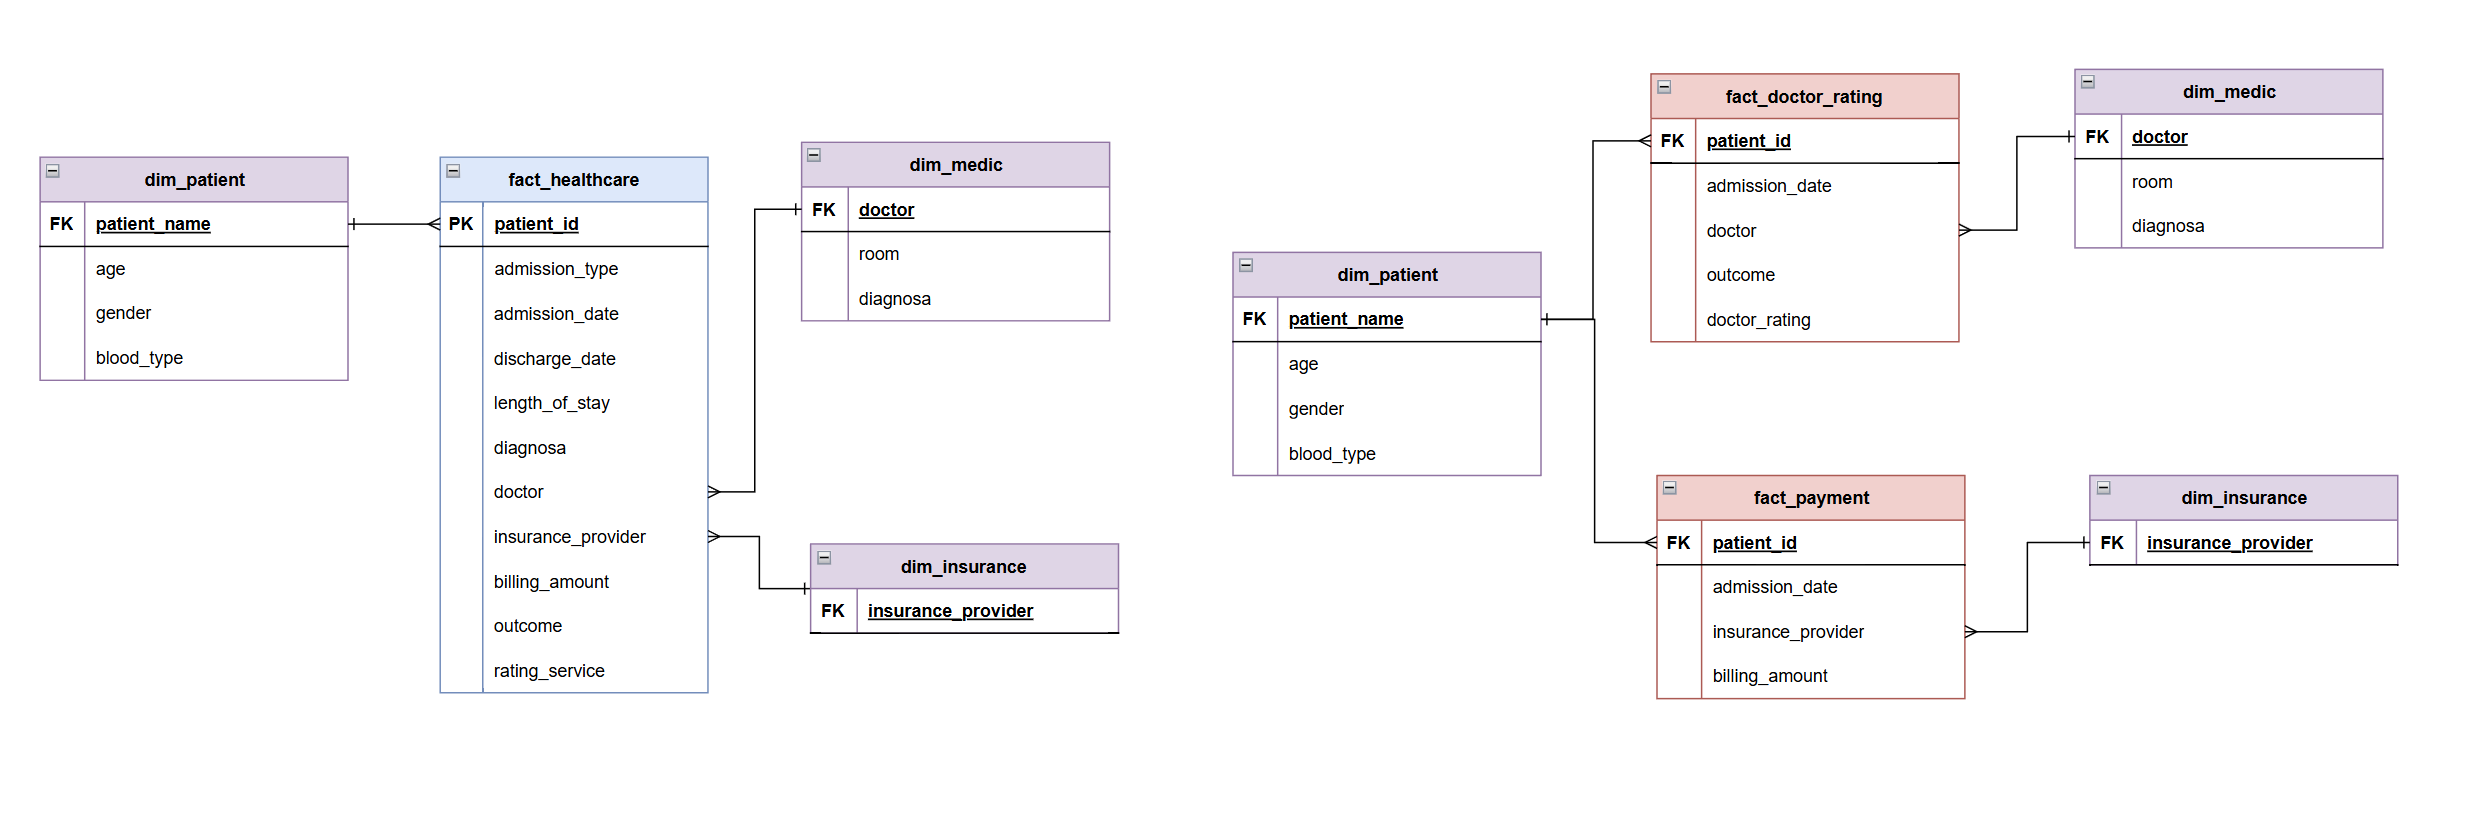
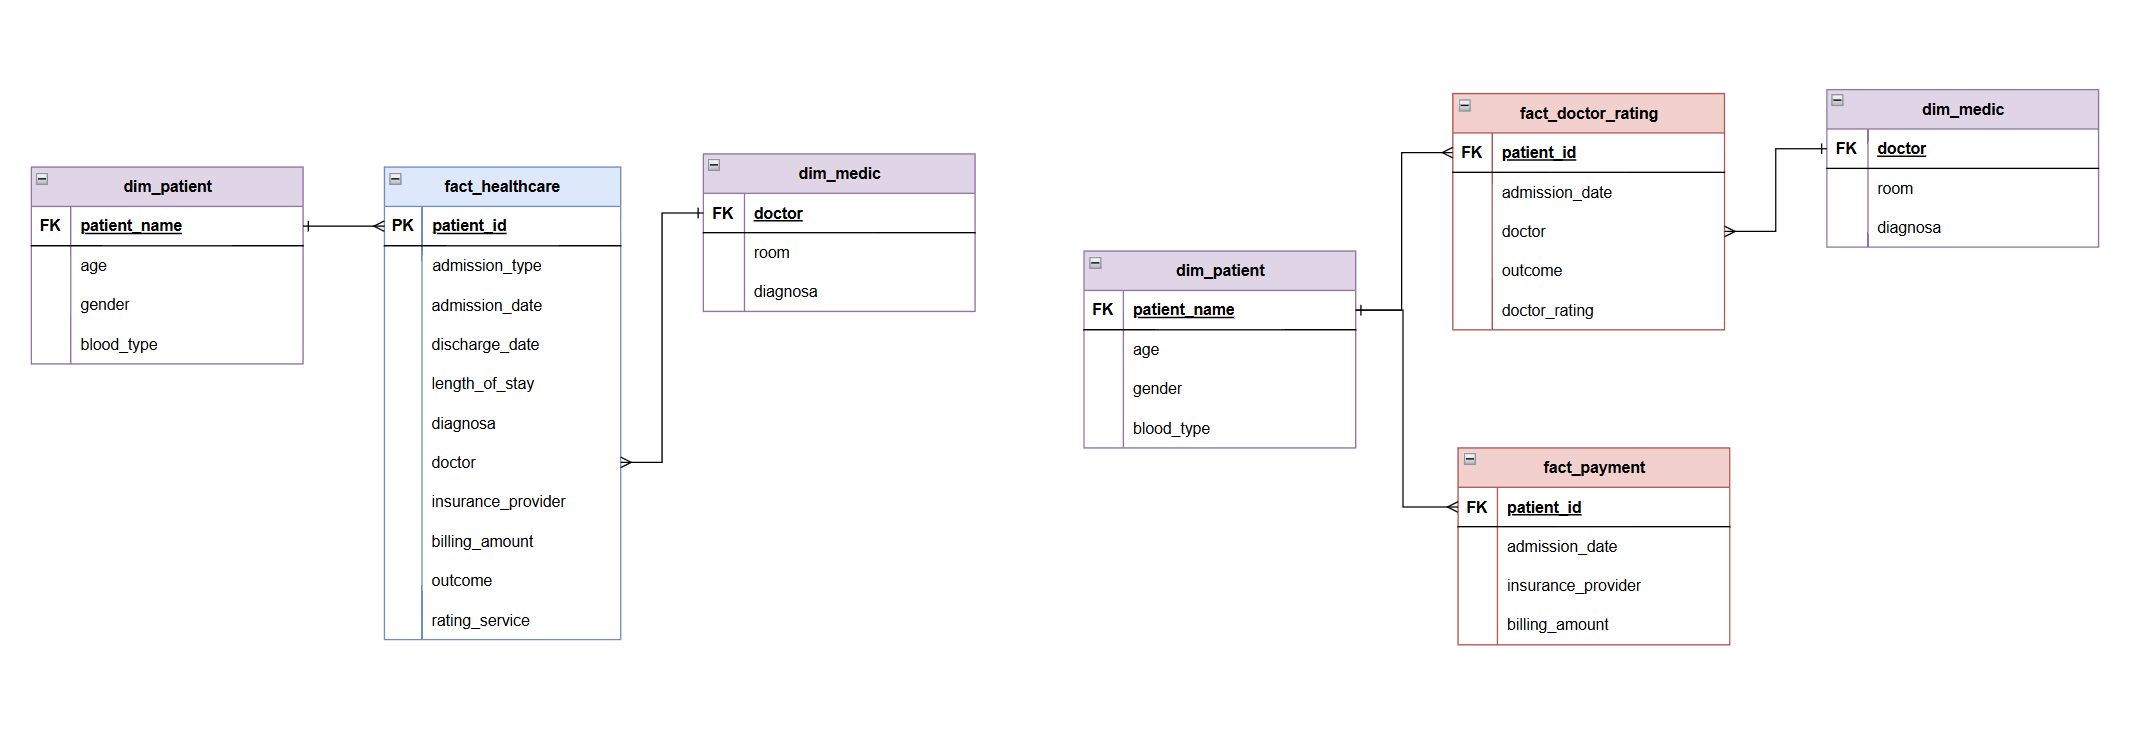
revision final:  dags, images , readme

diff --git a/dags/dag_extraction.py b/dags/dag_extraction.py
@@ -36,7 +36,7 @@ with DAG(
 
     remove = BashOperator(
         task_id='rm-csv',
-        bash_command='rm /opt/airflow/tmp/healthcare_dataset.csv',
+        bash_command='rm /opt/airflow/tmp/healthcare_data.csv',
         on_failure_callback=discord_notification,
         on_success_callback=discord_notification 
     )
@@ -49,10 +49,10 @@ with DAG(
 
     trigger = TriggerDagRunOperator(
         task_id="trigger_transformation_dag",
-        trigger_dag_id="jcdeol005_finpro_transformation",
+        trigger_dag_id="jcdeol005_finalproject_transformation",
         wait_for_completion=False,
         on_failure_callback=discord_notification,
         on_success_callback=discord_notification 
     )
 
-    chain(start, create, load,remove, delay, trigger)
+    chain(start, create, load, remove, delay, trigger)

diff --git a/dags/dag_producer.py b/dags/dag_producer.py
@@ -4,7 +4,7 @@ from airflow.operators.bash import BashOperator
 from airflow.operators.empty import EmptyOperator
 from airflow.operators.trigger_dagrun import TriggerDagRunOperator
 from scripts.notification import discord_notification
-from datetime import datetime,timedelta
+from datetime import datetime
 
 default_args = {
     'owner': 'airflow',

diff --git a/README.md b/README.md
@@ -27,7 +27,6 @@ Struktur Star Schema pada Data Warehouse:
 - *Dimension Tables*:
     - `dim_patient`: Berisi informasi pasien seperti usia, gender, dan golongan darah.
     - `dim_doctor`: Berisi informasi medis, mencakup nama dokter, diagnosa, dan ruangan.
-    - `dim_insurance`: Berisi informasi mengenai penyedia asuransi yang digunakan pasien.
 
 
 ## Dags Design
@@ -58,9 +57,10 @@ Struktur Star Schema pada Data Warehouse:
 > terdapat 3 analisa yang bisa di lihat pada dashboard di bawah ini.
 
 ### Overall Patient
+
 ![patient](images/patient.png)
 - `Pasien elective` mendominasi dengan tren meningkat hingga 240 pasien di 2024.
-- `Total pasien` stabil di kisaran 550–600 per tahun, sempat turun drastis di 2022.
+- `Total pasien` stabil di kisaran 2.200 per tahun, sempat turun drastis di 2022.
 - `Rating layanan tertinggi` terjadi pada 2023 (1.355).
 - `Outcome pasien` menunjukkan peningkatan pasien sembuh (546 → 808), meski angka kematian masih tinggi di kisaran 700-an.
 
